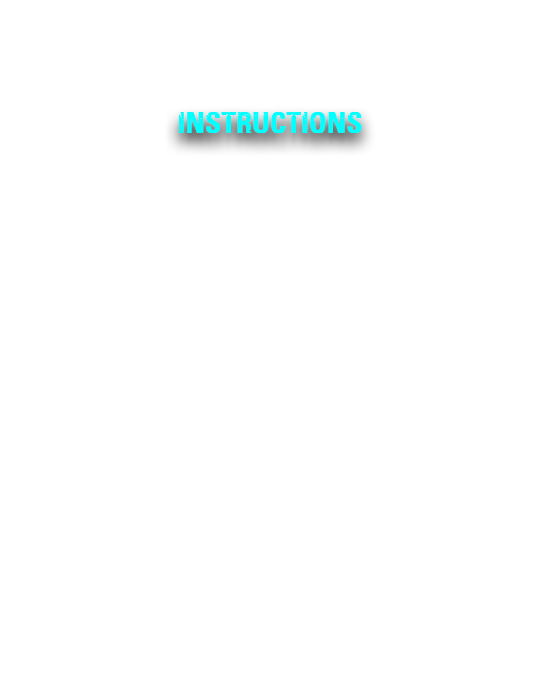
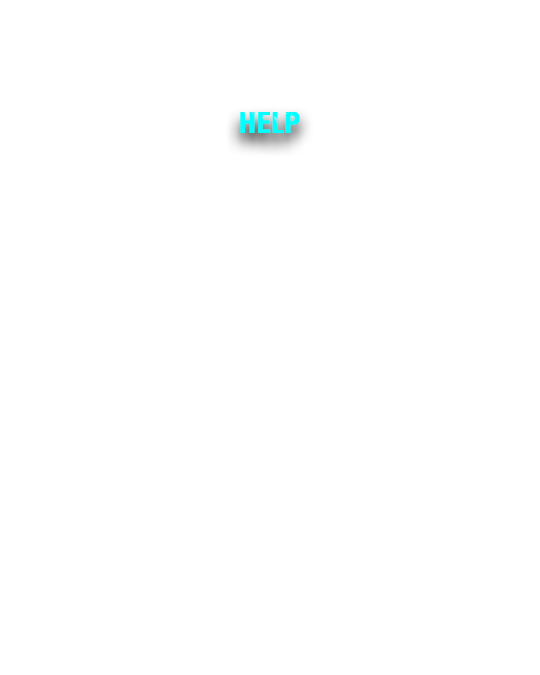
new Help-Screnn graphic; GUI: Button-Text and Info-Texts now in constants

Changed region(s): [[0.2963, 0.1556, 0.6815, 0.2178]]

diff --git a/src/de/pfbeuth/game/breakout/gameEngine/GUI.java b/src/de/pfbeuth/game/breakout/gameEngine/GUI.java
@@ -5,7 +5,6 @@ import de.pfbeuth.game.breakout.gamelogic.ScoreCounter;
 import javafx.geometry.Insets;
 import javafx.geometry.Pos;
 import javafx.scene.control.Button;
-import javafx.scene.control.Label;
 import javafx.scene.control.TextField;
 import javafx.scene.image.Image;
 import javafx.scene.image.ImageView;
@@ -21,20 +20,31 @@ public class GUI {
     private HBox buttonContainer, startButtonContainer, infoContainer, gameOverContainer, highscoreContainer, introductionContainer,creditContainer ;
     private VBox masterButtonContainer;
     private Button playButton, helpButton, highscoreButton, startButton, confirmButton;
-    private Text levelInfo, lifeInfo, scoreInfo, gameOverInfo, highscoreList, instructionText;
+    private Text levelInfo, lifeInfo, scoreInfo, gameOverInfo, highscoreList, helpText;
     private Insets buttonContainerPadding, topContainerPadding;
     private ImageView backgroundLayer, menueOverlay, playBackground;
     private Image playBackgroundImage, backgroundImage, helpImage, highscoreImage;
     private boolean gameIsPaused;
-    private final String startText = "START\n(hit enter)";
-    private final String playAgainText = "PLAY AGAIN\n(hit enter)";
-    private final String gameOver = "GAME OVER";
-    private final String pauseGameText = "PAUSED\n(hit enter)";
 
-    /**NEUE HighscoreContrainer*/
+    private final String START_BUTTON_TEXT = "START\n(hit enter)";
+    private final String PLAY_BUTTON_TEXT = "PLAY";
+    private final String PLAY_AGAIN_TEXT = "PLAY AGAIN\n(hit enter)";
+    private final String GAME_OVER_TEXT = "GAME OVER";
+    private final String PAUSE_GAME_TEXT = "PAUSED\n(hit enter)";
+    private final String HELP_BUTTON_TEXT = "HELP";
+    private final String HIGHSCORE_BUTTON_TEXT = "HIGHSCORES";
+	private final String CONFIRM_BUTTON_TEXT = "CONFIRM";
+	private final String LEVEL_INFO_TEXT = "LEVEL";
+	private final String LIVES_INFO_TEXT = "LIVES";
+	private final String SCORE_INFO_TEXT = "SCORE";
+
+
+
+
+	/* ------ NEUE HighscoreContrainer ------ */
     private GridPane playerInputContainer;
     private Insets highscoreContainerPadding;
-    //dataHandling
+    /* ------ dataHandling ------ */
     private CreatePlayer Player;
     private String playerName;
     private TextField nameInput, nameLabel;
@@ -46,14 +56,17 @@ public class GUI {
         createInfoText();
         createButtons();
         createGUIContainer();
-
     }
 
     private void loadImageAssets(){
-        backgroundImage = new Image("/assets/graphics/background.png", Breakout.WIDTH, Breakout.HEIGHT, false, false, true);
-        helpImage = new Image("/assets/graphics/help.png", Breakout.WIDTH, Breakout.HEIGHT, true, false, true);
-        highscoreImage = new Image("/assets/graphics/highscore.png", Breakout.WIDTH, Breakout.HEIGHT, true, false, true);
-        playBackgroundImage = new Image("/assets/graphics/background_play.png", Breakout.WIDTH, Breakout.HEIGHT, false, false, true);
+        backgroundImage = new Image("/assets/graphics/background.png",
+						  Breakout.WIDTH, Breakout.HEIGHT, false, false, true);
+        helpImage = new Image("/assets/graphics/help.png",
+						  Breakout.WIDTH, Breakout.HEIGHT, true, false, true);
+        highscoreImage = new Image("/assets/graphics/highscore.png",
+					   	  Breakout.WIDTH, Breakout.HEIGHT, true, false, true);
+        playBackgroundImage = new Image("/assets/graphics/background_play.png",
+						  Breakout.WIDTH, Breakout.HEIGHT, false, false, true);
     }
 
     private void createGUIImages(){
@@ -83,7 +96,7 @@ public class GUI {
         startButtonContainer.setAlignment(Pos.TOP_CENTER);
         startButtonContainer.setPadding(buttonContainerPadding);
 
-        // Container for Gameinformation: Level, Life and Score
+        /* ------ Container for Gameinformation: Level, Life and Score ------ */
         infoContainer = new HBox(12);
         infoContainer.setPrefHeight(Breakout.HEIGHT / 22);
         infoContainer.setAlignment(Pos.BOTTOM_CENTER);
@@ -94,7 +107,7 @@ public class GUI {
         gameOverContainer.setAlignment(Pos.TOP_CENTER);
         gameOverContainer.setPadding(buttonContainerPadding);
 
-        // Container for showing Highscore List
+        /* ------ Container for showing Highscore List ------ */
         highscoreContainer = new HBox(12);
         highscoreContainer.setPrefHeight(Breakout.HEIGHT / 50);
         highscoreContainer.setAlignment(Pos.TOP_CENTER);
@@ -126,7 +139,7 @@ public class GUI {
 
         /** Add GUI Nodes to scene */
         infoContainer.getChildren().addAll(levelInfo, lifeInfo, scoreInfo);
-        introductionContainer.getChildren().add(instructionText);
+        introductionContainer.getChildren().add(helpText);
         highscoreContainer.getChildren().add(highscoreList);
         //textContainer.getChildren().addAll(introductionContainer,creditContainer,highscoreContainer);
         buttonContainer.getChildren().addAll(playButton, highscoreButton, helpButton);
@@ -153,55 +166,59 @@ public class GUI {
 
         /** levelInfo, lifeInfo, ScoreInfo Setup */
         levelInfo = new InfoText();
-        levelInfo.setText("Level: " + breakout.getLevel().getLevel());
+        levelInfo.setText(LEVEL_INFO_TEXT + breakout.getLevel().getLevel());
 
         lifeInfo = new InfoText();
-        lifeInfo.setText("Lives: " + breakout.getLife().getActualLife());
+        lifeInfo.setText(LIVES_INFO_TEXT + breakout.getLife().getActualLife());
 
         scoreInfo = new InfoText();
-        scoreInfo.setText("Score: " + ScoreCounter.score);
+        scoreInfo.setText(SCORE_INFO_TEXT + ScoreCounter.score);
 
         gameOverInfo = new InfoText();
         gameOverInfo.setFont(Font.font(30));
         gameOverInfo.setFill(Color.RED);
-        gameOverInfo.setText(gameOver);
+        gameOverInfo.setText(GAME_OVER_TEXT);
 
         highscoreList = new InfoText();
         highscoreList.setText("Highscore Liste wird hier angezeigt: ");
+        highscoreList.setVisible(true);
 
-        instructionText = new InfoText();
-        instructionText.setText("Spielanteilung: ");
+        helpText = new InfoText();
+        helpText.setText("Spielanteilung: ");	//TODO convert String to Constant
     }
 
     private void createButtons(){
+		startButton = new Button();
+		startButton.setPrefSize(100, 100);
+		startButton.setText(START_BUTTON_TEXT);
+		startButton.setTextAlignment(TextAlignment.CENTER);
+		startButton.setVisible(false);
+		startButton.setDisable(true);
+		startButton.setOnAction(e -> {
+			runGameEvents();
+			if (startButton.getText().equals(PLAY_AGAIN_TEXT)) {
+				lifeInfo.setText("Lives: " + breakout.getLife().getActualLife());
+				startButton.setText(START_BUTTON_TEXT);
+			}
+		});
 
-        playButton = new Button();
-        playButton.setPrefWidth(100);
-        playButton.setText("PLAY");
-        playButton.setOnAction(e -> {
-            startButton.setVisible(true);
-            startButton.setDisable(false);
-            backgroundLayer.setVisible(false);
-            menueOverlay.setVisible(false);
-            playBackground.setVisible(true);
-            playBackground.toBack();
-            hideGameInfos();
-        });
-        startButton = new Button();
-        startButton.setPrefSize(100, 100);
-        startButton.setText("START");
-        startButton.setTextAlignment(TextAlignment.CENTER);
-        startButton.setVisible(false);
-        startButton.setDisable(true);
-        startButton.setOnAction(e -> {
-            runGameEvents();
-            if (startButton.getText().equals(playAgainText)) {
-                lifeInfo.setText("Lives: " + breakout.getLife().getActualLife());
-                startButton.setText(startText);
-            }
-        });
+		playButton = new Button();
+		playButton.setPrefWidth(100);
+		playButton.setText(PLAY_BUTTON_TEXT);
+		playButton.setOnAction(e -> {
+			startButton.setVisible(true);
+			startButton.setDisable(false);
+			backgroundLayer.setVisible(false);
+			menueOverlay.setVisible(false);
+			playBackground.setVisible(true);
+			playBackground.toBack();
+			highscoreList.setVisible(false);
+			hideGameInfos();
+		});
+
         highscoreButton = new Button();
-        highscoreButton.setText("HIGH SCORES");
+		highscoreButton.setPrefWidth(100);
+        highscoreButton.setText(HIGHSCORE_BUTTON_TEXT);
         highscoreButton.setOnAction(e -> {
             backgroundLayer.setVisible(true);
             menueOverlay.setVisible(true);
@@ -209,11 +226,13 @@ public class GUI {
             startButton.setVisible(false);
             startButton.setDisable(true);
             highscoreList.setVisible(true);
-            instructionText.setVisible(false);
+            helpText.setVisible(false);
             hideGameInfos();
         });
+
         helpButton = new Button();
-        helpButton.setText("INSTRUCTIONS");
+		helpButton.setPrefWidth(100);
+        helpButton.setText(HELP_BUTTON_TEXT);
         helpButton.setOnAction(e -> {
             backgroundLayer.setVisible(true);
             menueOverlay.setVisible(true);
@@ -222,20 +241,21 @@ public class GUI {
             startButton.setDisable(true);
             hideGameInfos();
             highscoreList.setVisible(false);
-            instructionText.setVisible(true);
+            helpText.setVisible(true);
         });
+
         confirmButton = new Button();
-        confirmButton.setText("Confirm");
-        /*confirmButton.setOnAction(new EventHandler<ActionEvent>() {
-            @Override
-            public void handle(ActionEvent e) {
-                if ((nameInput.getText() != null && !nameInput.getText().isEmpty())) {
-                    nameLabel.setText(nameInput.getText() + ", " + "thank you for your comment!");
-                } else {
-                    nameLabel.setText("You have not left a player name.");
+        confirmButton.setText(CONFIRM_BUTTON_TEXT);
+        /*
+        confirmButton.setOnAction(e -> {
+            if ((nameInput.getText() != null && !nameInput.getText().isEmpty())) {
+				nameLabel.setText(nameInput.getText() + ", " + "thank you for your comment!");
                 }
-            }
-        });*/
+		  	else{
+				nameLabel.setText("You have not left a player name.");
+                }
+        });
+        */
         confirmButton.setOnAction(e -> {
             playerName = nameInput.getText();
             System.out.println("Player name is: " + playerName);
@@ -252,7 +272,17 @@ public class GUI {
         });
     }
 
-    /** View: Start new Game*/
+	private void showGameInfos(){
+		levelInfo.setVisible(true);
+		lifeInfo.setVisible(true);
+		scoreInfo.setVisible(true);
+	}
+	private void hideGameInfos(){
+		levelInfo.setVisible(false);
+		lifeInfo.setVisible(false);
+		scoreInfo.setVisible(false);
+	}
+	/* ------ View: Start new Game ------ */
     public void runGameEvents() {
 
         /* //TODO countdown before game starts
@@ -281,13 +311,13 @@ public class GUI {
         showGameInfos();
         gameIsPaused = false;
     }
-    /** View: Pause new Game*/
+	/* ------ View: Pause new Game ------ */
     public void pauseGameEvents(){
         breakout.getGameTimer().stop();
         startButton.setVisible(true);
         startButton.setDisable(false);
         startButton.setCancelButton(false);
-        startButton.setText(pauseGameText);
+        startButton.setText(PAUSE_GAME_TEXT);
         startButton.setTextAlignment(TextAlignment.CENTER);
         playButton.setVisible(true);
         playButton.setDisable(false);
@@ -299,17 +329,7 @@ public class GUI {
         gameIsPaused = true;
     }
 
-    private void showGameInfos(){
-        levelInfo.setVisible(true);
-        lifeInfo.setVisible(true);
-        scoreInfo.setVisible(true);
-    }
-    private void hideGameInfos(){
-        levelInfo.setVisible(false);
-        lifeInfo.setVisible(false);
-        scoreInfo.setVisible(false);
-    }
-
+    /* ------ GETTER ------ */
     public Button getStartButton() {
         return startButton;
     }
@@ -353,12 +373,12 @@ public class GUI {
         return gameIsPaused;
     }
     public String getStartText() {
-        return startText;
+        return START_BUTTON_TEXT;
     }
     public String getPlayAgainText() {
-        return playAgainText;
+        return PLAY_AGAIN_TEXT;
     }
     public String getPauseGameText() {
-        return pauseGameText;
+        return PAUSE_GAME_TEXT;
     }
 }

diff --git a/src/de/pfbeuth/game/breakout/gameEngine/Breakout.java b/src/de/pfbeuth/game/breakout/gameEngine/Breakout.java
@@ -20,17 +20,18 @@ import de.pfbeuth.game.breakout.gamelogic.Life;
     private StackPane root;
     private Scene scene;
     private Controller controller;
-    //Game Objects
     private ArrayList<Brick> brickGridList;
     private GamePlayTimer gameTimer;
+
     private SpriteManager spriteManager;
-    private Paddle paddle;
     private Brick brick;
+    private Paddle paddle;
     private Ball ball;
     private BrickGrid brickGrid;
-    //Images
+
     private Image paddleImage, brickImage, brickImageRed, brickImageOrange, brickImageYellow, brickImageGreen, ballImage;
     private GUI guiNodes;
+
     private GameOver gameOver;
     private Level level;
     private Life life;
